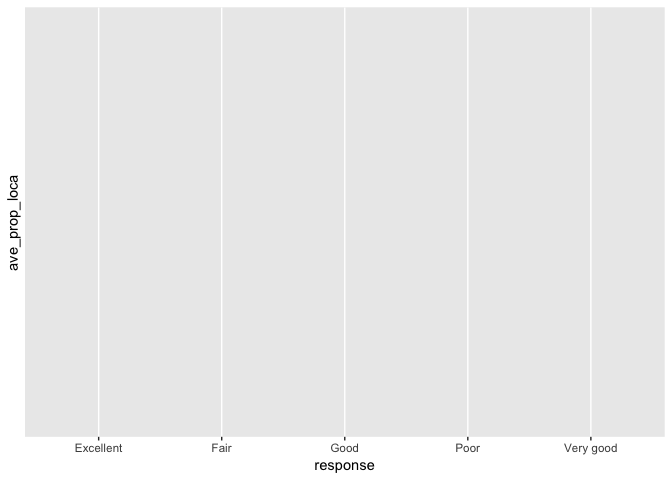
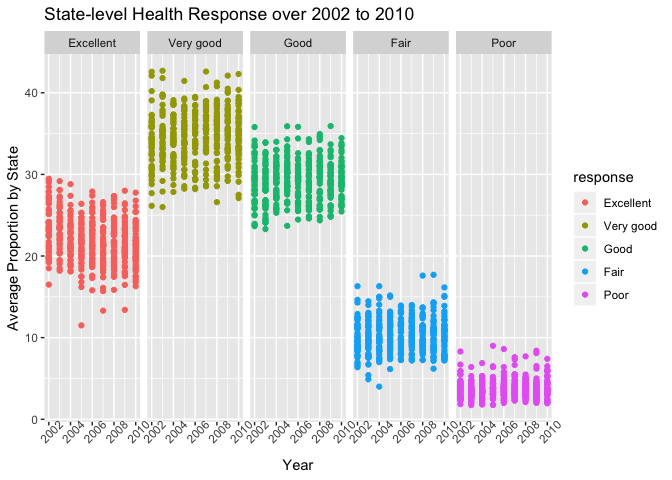
add some comment

diff --git a/p8105_hw3_hy2580.md b/p8105_hw3_hy2580.md
@@ -15,7 +15,7 @@ brfss_overallhealth = brfss_smart2010 %>%
   # checked response with distinct(), no pre-collapsed categories
   filter(topic == "Overall Health") %>% 
   # take levels form excellent to poor by factorize response
-  mutate(response = factor(response))
+  mutate(response = fct_relevel(response,c("Excellent","Very good","Good","Fair","Poor")))
 ```
 
 Find states were observed at 7 locations in 2002
@@ -35,18 +35,46 @@ brfss_overallhealth %>%
     ## 2 FL               7
     ## 3 NC               7
 
+CT, FL, NC were observed at 7 locations in 2002.
+
 Make a spaghetti plot for number of observations in each state from 2002 to 2010
 
 ``` r
-brfss_overallhealth %>% 
+n_observations =
+  brfss_overallhealth %>% 
   group_by(year,locationabbr) %>% 
-  count(locationabbr) %>% 
+  count(locationabbr)
+
+n_observations %>%   
   ggplot(aes( x = year, y = n, color = locationabbr)) +
   geom_line() + 
   labs(x = "Year", y = "Number of Observations", title = "Number of Observations in States (U.S.)", subtitle = "(2002-2010)")
 ```
 
 ![](p8105_hw3_hy2580_files/figure-markdown_github/unnamed-chunk-3-1.png)
+
+``` r
+n_observations %>% 
+  arrange(desc(n))
+```
+
+    ## # A tibble: 443 x 3
+    ## # Groups:   year, locationabbr [443]
+    ##     year locationabbr     n
+    ##    <int> <chr>        <int>
+    ##  1  2007 FL             220
+    ##  2  2010 FL             205
+    ##  3  2005 NJ              95
+    ##  4  2006 NJ              95
+    ##  5  2009 NJ              95
+    ##  6  2010 NJ              95
+    ##  7  2008 NJ              90
+    ##  8  2007 NJ              80
+    ##  9  2008 NC              80
+    ## 10  2010 TX              80
+    ## # ... with 433 more rows
+
+As shown above, FL is most observed in 2007 and 2010, is it likely some event occured in those two years that make the data more accessible. One the other hand, NJ appears to be more observed during the entire observation period (2002-2010), which may be a result of more healthcare facilities within the state.
 
 Make a table showing, for the years 2002, 2006, and 2010, the mean and standard deviation of the proportion of “Excellent” responses across locations in NY State.
 
@@ -58,35 +86,36 @@ brfss_overallhealth %>%
   group_by(year) %>%
   summarise(mean(data_value),
             sd(data_value)) %>% 
-  knitr::kable()
+  knitr::kable(digits = 2,
+               col.names = c("Year", "Mean", "Standard Deviation"))
 ```
 
-|  year|  mean(data\_value)|  sd(data\_value)|
-|-----:|------------------:|----------------:|
-|  2002|           24.04000|         4.486424|
-|  2006|           22.53333|         4.000833|
-|  2010|           22.70000|         3.567212|
+|  Year|   Mean|  Standard Deviation|
+|-----:|------:|-------------------:|
+|  2002|  24.04|                4.49|
+|  2006|  22.53|                4.00|
+|  2010|  22.70|                3.57|
+
+As the table shown above, Year 2002 appears to have the largest mean and standard deviation of the proportion of "Excellent" response across locations in NY state. While Year 2006 have the smallest mean and Year 2010 has the smallest standard deviation.
 
 For each year and state, compute the average proportion in each response category (taking the average across locations in a state). Make a five-panel plot that shows, for each response category separately, the distribution of these state-level averages over time.
 
 ``` r
-ave_prop_loca = brfss_overallhealth %>% 
-  group_by(locationabbr,year,response) %>% 
-  mean(data_value)
+brfss_overallhealth %>%
+  group_by(locationabbr, year, response) %>% 
+  summarize(avg_prop = mean(data_value)) %>% 
+  ggplot(aes(x = year, avg_prop, color = response)) + 
+  geom_point() +
+  facet_grid(~ response) +
+  labs(title = "State-level Health Response over 2002 to 2010",
+         x = "Year",
+         y = "Average Proportion by State") +
+  theme(axis.text.x = element_text(angle = 45))
 ```
 
-    ## Warning in mean.default(., data_value): argument is not numeric or logical:
-    ## returning NA
+    ## Warning: Removed 21 rows containing missing values (geom_point).
 
-``` r
-brfss_overallhealth %>%  
-  ggplot(aes(x = response, ave_prop_loca)) + 
-  geom_boxplot()
-```
-
-    ## Warning: Removed 10625 rows containing non-finite values (stat_boxplot).
-
-![](p8105_hw3_hy2580_files/figure-markdown_github/unnamed-chunk-5-1.png)
+![](p8105_hw3_hy2580_files/figure-markdown_github/unnamed-chunk-5-1.png) The distribution of each response across years appears to be concentrate. And the proportion of responses different by the level of response. The most likely response is "Very Good", while the least likely response is "Poor".
 
 Problem2
 --------
@@ -132,7 +161,22 @@ instacart_tidy %>%
     ## 10 bread                          23635
     ## # ... with 124 more rows
 
+There are 134 aisles, and the aisles that has most items ordered from is listed in the table above. From the table, we know that fresh vegetables are the most ordered, and fresh fruits is the second, which indicate customers are more willing to order fresh producs from instacart.
+
 Make a plot that shows the number of items ordered in each aisle. Order aisles sensibly, and organize your plot so others can read it.
+
+``` r
+instacart_tidy %>% 
+  count(aisle) %>%
+  ggplot(aes(x = reorder(aisle, -n, sum), n)) +
+  geom_point() +
+  theme(axis.text.x = element_text(size = 6, angle = 45, hjust = 1)) +
+  labs(x = "Aisle Name",
+       y = "Number of Items Ordered",
+       title = "Number of Items Ordered in each Aisle" )
+```
+
+![](p8105_hw3_hy2580_files/figure-markdown_github/unnamed-chunk-8-1.png) The plot above showed the number of items ordered in each aisle from a descending order.
 
 Make a table showing the most popular item in each of the aisles “baking ingredients”, “dog food care”, and “packaged vegetables fruits”.
 
@@ -142,23 +186,121 @@ instacart_tidy %>%
   group_by(aisle) %>% 
   count(product_name) %>% 
   top_n(1,n) %>% 
-  knitr::kable()
+  knitr::kable(col.names = c("Aisle", "Most Order Item", "Ordered Number"))
 ```
 
-| aisle                      | product\_name                                 |     n|
-|:---------------------------|:----------------------------------------------|-----:|
-| baking ingredients         | Light Brown Sugar                             |   499|
-| dog food care              | Snack Sticks Chicken & Rice Recipe Dog Treats |    30|
-| packaged vegetables fruits | Organic Baby Spinach                          |  9784|
+| Aisle                      | Most Order Item                               |  Ordered Number|
+|:---------------------------|:----------------------------------------------|---------------:|
+| baking ingredients         | Light Brown Sugar                             |             499|
+| dog food care              | Snack Sticks Chicken & Rice Recipe Dog Treats |              30|
+| packaged vegetables fruits | Organic Baby Spinach                          |            9784|
+
+Lighter brown sugar was the most ordered item among baking ingredients, which had 499 orders, Snack Sticks Chicken & Rice Recipe Dog Treats is the most ordered dog food care with 30 orders, Orgainic Baby Spinach had 9784 orders and listed as the most ordered item in packaged vegetables fruits. ALthough those three product are most ordered item at their aisle, the ordered number is significantly different.
 
 Make a table showing the mean hour of the day at which Pink Lady Apples and Coffee Ice Cream are ordered on each day of the week; format this table for human readers (i.e. produce a 2 x 7 table).
 
+``` r
+instacart_tidy %>%
+  filter(product_name %in% c("Pink Lady Apples","Coffee Ice Cream")) %>% 
+  mutate(order_dow = 
+           factor(order_dow, levels = 0:6, labels = c("Sunday", "Monday", "Tuesday", "Wednesday", "Thursday", "Friday", "Saturday"))) %>% 
+  group_by(product_name, order_dow) %>% 
+  summarize(mean = mean(order_hour_of_day)) %>% 
+  spread(order_dow, mean) %>% 
+  knitr::kable(digits = 2,
+               col.names = c("Product Name", "Sunday", "Monday", "Tuesday", "Wednesday", "Thursday", "Friday", "Saturday"))
+```
+
+| Product Name     |  Sunday|  Monday|  Tuesday|  Wednesday|  Thursday|  Friday|  Saturday|
+|:-----------------|-------:|-------:|--------:|----------:|---------:|-------:|---------:|
+| Coffee Ice Cream |   13.77|   14.32|    15.38|      15.32|     15.22|   12.26|     13.83|
+| Pink Lady Apples |   13.44|   11.36|    11.70|      14.25|     11.55|   12.78|     11.94|
+
+The table above showed the mean hour of the day at which the Pink Lady Apples and Coffee Ice Creams are ordered. we can see that most orders were ordered betweem 11 to 15.4. And this number may indicate a time that those products need refill.
+
+Problem 3
+---------
+
 This problem uses the NY NOAA data. DO NOT include this dataset in your local data directory; instead, load the data from the p8105.datasets package (it’s called ny\_noaa).
 
-The goal is to do some exploration of this dataset. To that end, write a short description of the dataset, noting the size and structure of the data, describing some key variables, and indicating the extent to which missing data is an issue. Then, do or answer the following (commenting on the results of each): \#\#Problem 3
+The goal is to do some exploration of this dataset. To that end, write a short description of the dataset, noting the size and structure of the data, describing some key variables, and indicating the extent to which missing data is an issue. Then, do or answer the following (commenting on the results of each):
+
+``` r
+ny_noaa_tidy = ny_noaa %>%
+  janitor::clean_names() %>% 
+  separate("date", c("year", "month", "day"), sep = "-") %>% 
+  mutate(tmax = as.numeric(tmax)/10,
+         tmin = as.numeric(tmin)/10,
+         day = as.numeric(day),
+         month = factor(month.abb[as.numeric(month)], level = month.abb),
+         prcp = prcp/10)
+```
 
 Do some data cleaning. Create separate variables for year, month, and day. Ensure observations for temperature, precipitation, and snowfall are given in reasonable units. For snowfall, what are the most commonly observed values? Why?
 
+``` r
+ny_noaa_tidy %>% 
+  count(snow) %>%
+  top_n(1,n)
+```
+
+    ## # A tibble: 1 x 2
+    ##    snow       n
+    ##   <int>   <int>
+    ## 1     0 2008508
+
+The most observed value of snowfall is zero, unlike rainfall, snow falls only under relatively cold weather.
+
 Make a two-panel plot showing the average max temperature in January and in July in each station across years. Is there any observable / interpretable structure? Any outliers?
 
-Make a two-panel plot showing (i) tmax vs tmin for the full dataset (note that a scatterplot may not be the best option); and (ii) make a plot showing the distribution of snowfall values greater than 0 and less than 100 separately by year.
+``` r
+ny_noaa_tidy %>% 
+  filter(month %in% c("Jan", "Jul")) %>% 
+  group_by(id, month,year) %>%
+  summarize(mean = mean(tmax,na.rm = TRUE)) %>% 
+  ggplot(aes(year,mean, group = year)) +
+  geom_boxplot() +
+  facet_grid(~ month) +
+  labs(x = "Average Max Temperature", y = "Year", title = "Average Maximum Temperature in January and July in NY from 1980 to 2010")
+```
+
+    ## Warning: Removed 5970 rows containing non-finite values (stat_boxplot).
+
+![](p8105_hw3_hy2580_files/figure-markdown_github/unnamed-chunk-13-1.png)
+
+The maximum temperature in July is significantly higher than that of January. And there are few outliers in both month.
+
+Make a two-panel plot showing (i) tmax vs tmin for the full dataset (note that a scatterplot may not be the best option);
+
+``` r
+plot_temp = ny_noaa_tidy %>% 
+  filter(is.na(tmax) == FALSE, is.na(tmin) == FALSE) %>% 
+  ggplot(aes(x = tmax, y = tmin)) + 
+  geom_hex() +
+  labs(x = "Maximum Temperature(°C)",
+       y = "Minimum Temperature(°C)",
+       title = "Maximum vs. Minimum Temperature")
+```
+
+1.  make a plot showing the distribution of snowfall values greater than 0 and less than 100 separately by year.
+
+``` r
+plot_snow = ny_noaa_tidy %>%
+  filter(snow > 0, snow < 100) %>%
+  ggplot(aes(x = year, y = snow, group = year)) +
+  geom_boxplot() +
+  labs(x = "Year", 
+       y = "Distribution of Snowfall(mm)",
+       title = "Distribution of Snowfall") +
+   theme(axis.text.x = element_text(angle = 45))
+```
+
+``` r
+plot_snow + plot_temp
+```
+
+![](p8105_hw3_hy2580_files/figure-markdown_github/unnamed-chunk-16-1.png)
+
+Above plot showed the distribution of snowfall and the Maximum vs. Minimum temperature for the full dataset. The distribution of snowfall doesn't varies much by year. and the outliers in two plots matches each other which indicate that there are some extremely cold year that cause more snowfall.
+
+The ny noaa data has 9rows and 2595176columns, they key variables are snowfall, precipitation, maximum temperature and minimum temperature. The data is structure so that we have the observations of variables at each observation points. The missing datas will have more effect on variables like snowfall which has little observations greater than zero.
